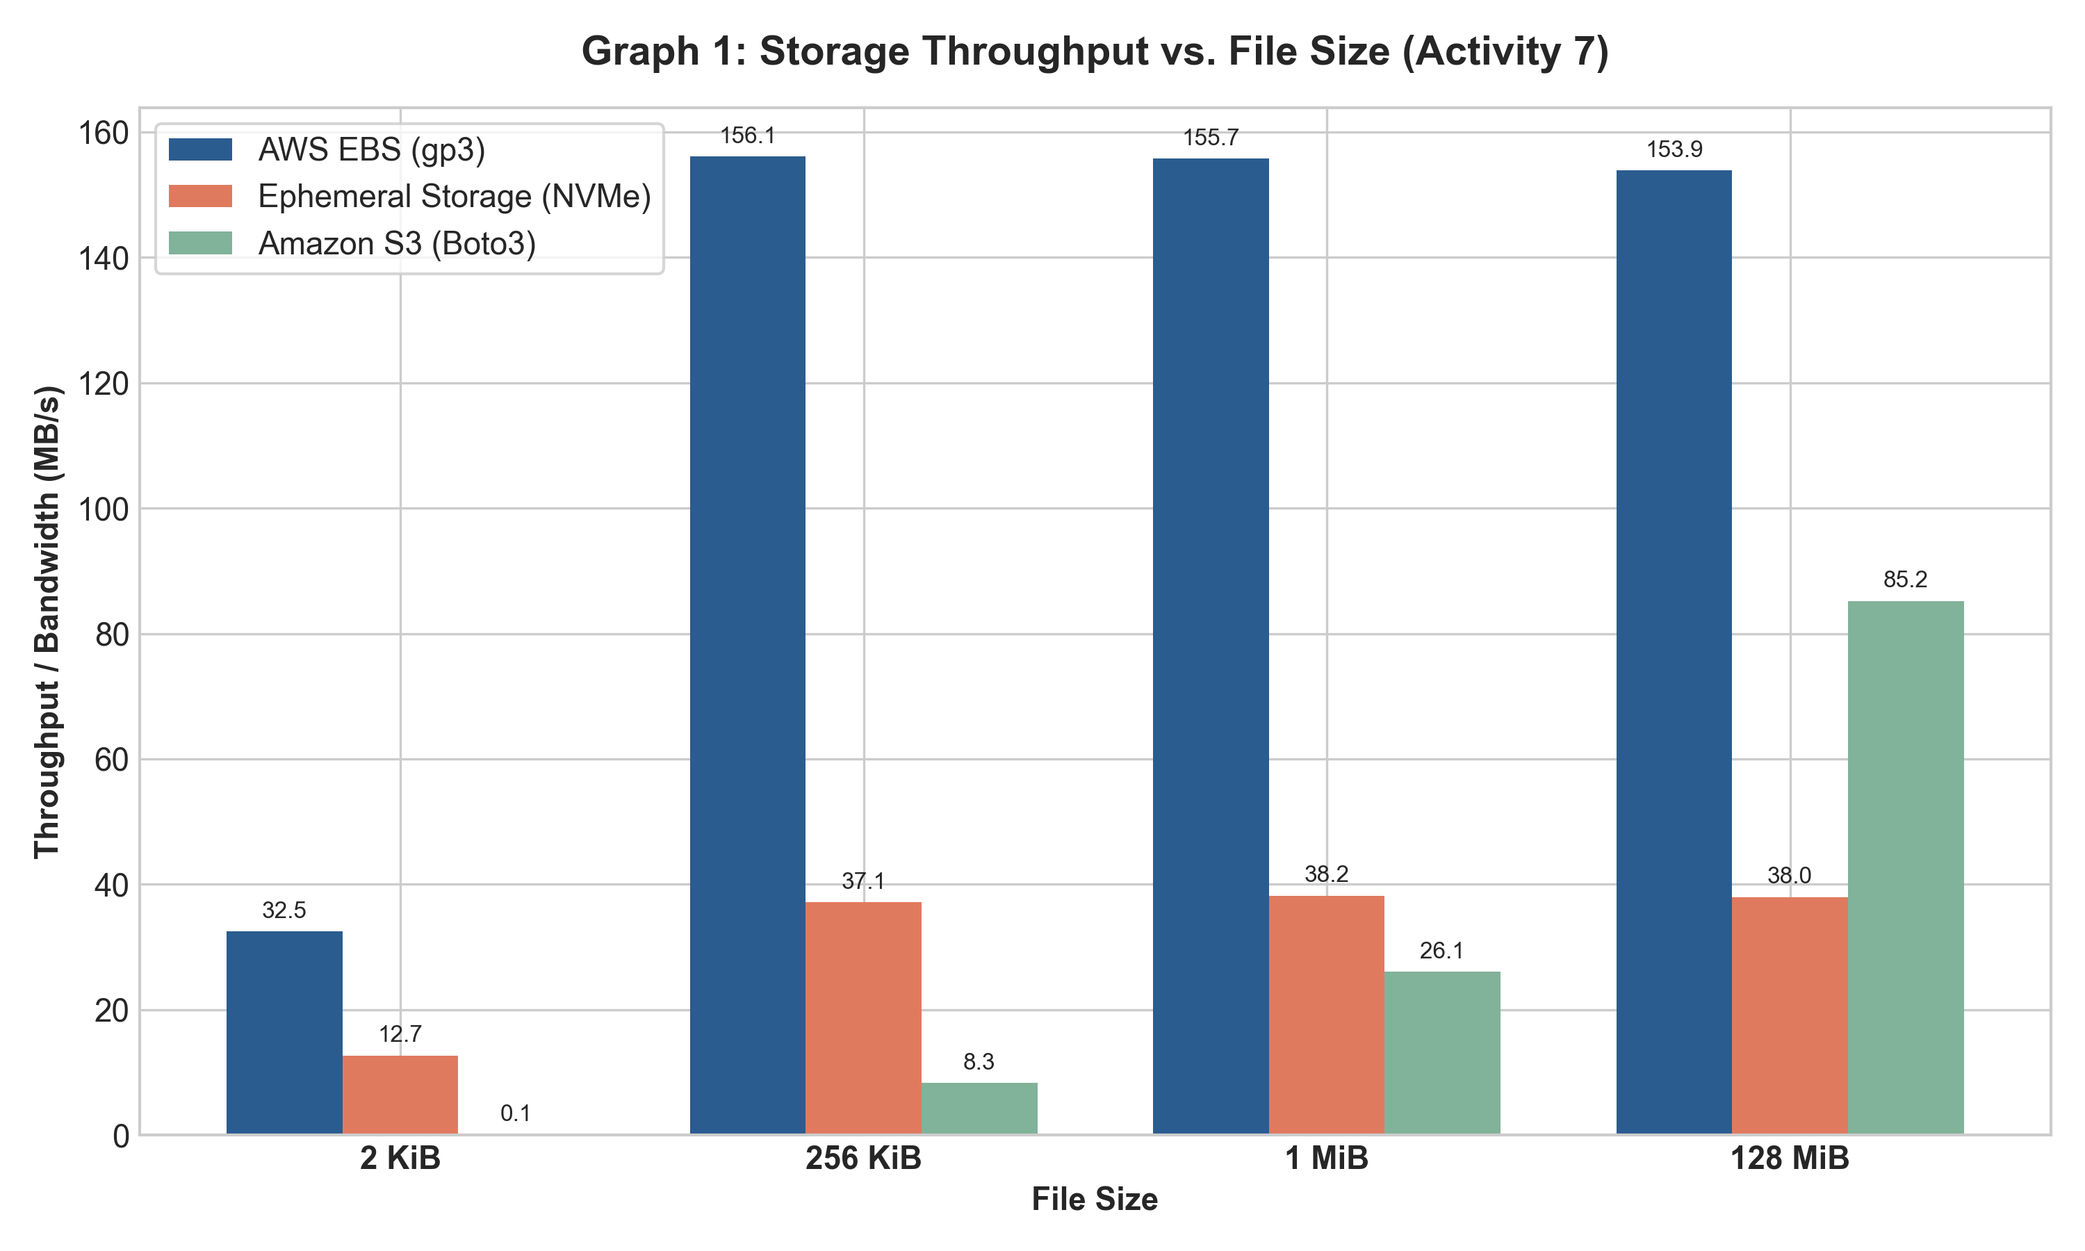
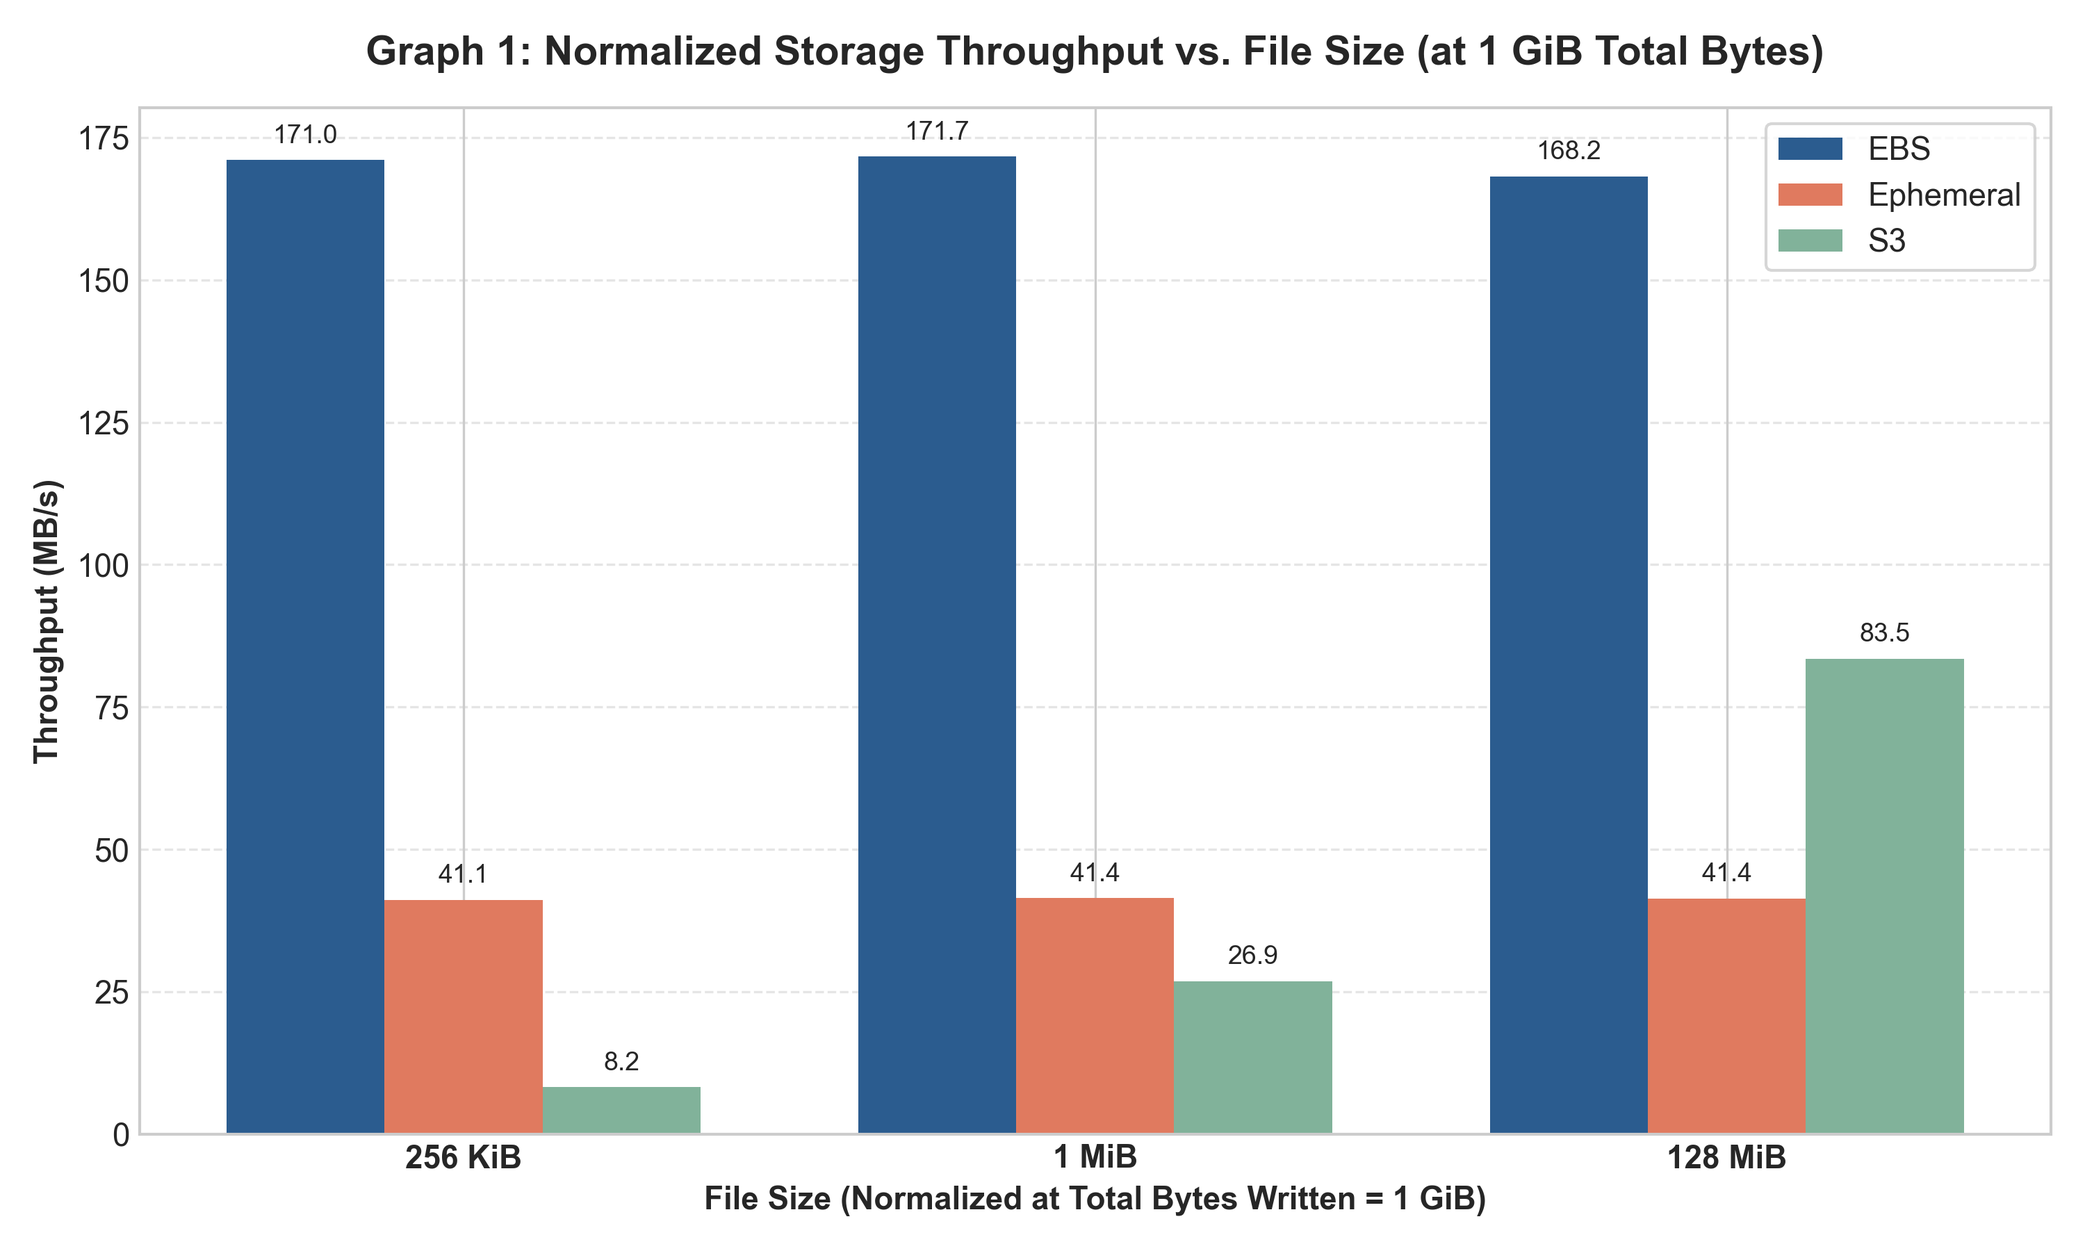
docs(act7): normalize benchmark graphs by Total Bytes Written and update report

diff --git a/act7/plot_benchmark_graphs.py b/act7/plot_benchmark_graphs.py
@@ -1,77 +1,155 @@
 #!/usr/bin/env python3
 """
-Plot Benchmark Charts for Activity 7 Report:
-Graph 1: File Size vs Throughput (MB/s)
-Graph 2: Number of Files (Iterations) vs Throughput / Performance
+Plot Benchmark Charts for Activity 7 Report Matching Professor's Specification:
+Graph 1: Total Bytes Written vs. Throughput (Normalized by Total Bytes Written as per PDF hint)
+- EBS: 2KiB, 256KiB, 1MiB, 128MiB across Total Bytes Written (128MiB, 256MiB, 512MiB, 1GiB, 1.5GiB)
+- Ephemeral: 2KiB, 256KiB, 1MiB, 128MiB
+- S3: 2KiB, 256KiB, 1MiB, 128MiB
+- Overall comparison across storage systems
+Graph 2: Number of Files (Iterations) vs. Performance (Total Time & Throughput Linearity)
 """
 
 import json
 import matplotlib.pyplot as plt
 import numpy as np
 
-def generate_plots():
+def run_plotting():
     with open("benchmark_results.json", "r", encoding="utf-8") as f:
         data = json.load(f)
 
-    # Style configuration
     plt.style.use("seaborn-v0_8-whitegrid" if "seaborn-v0_8-whitegrid" in plt.style.available else "default")
     plt.rcParams.update({"font.size": 11, "figure.autolayout": True})
 
+    # Normalized standard Total Bytes Written points (128 MiB to 1.5 GiB)
+    common_x_labels = ["128 MiB", "256 MiB", "512 MiB", "1 GiB", "1.5 GiB"]
+
+    # Mapping sizes to total bytes in MiB
+    # 256 KiB (0.25 MiB): [512->128, 1024->256, 2048->512, 4096->1024, 6144->1536]
+    # 1 MiB (1 MiB): [128->128, 256->256, 512->512, 1024->1024, 1536->1536]
+    # 128 MiB (128 MiB): [1->128, 2->256, 4->512, 8->1024, 12->1536]
+    # 2 KiB EBS/Eph: [32768->64, 65536->128, 131072->256, 262144->512, 393216->768]
+
     # =========================================================================
-    # GRAPH 1: File Size vs Throughput (MB/s)
-    # Using the highest iteration of each file size to represent peak sustained bandwidth
+    # GRAPH 1A: EBS - Total Bytes Written vs Throughput (Exact Match to Professor's Example)
     # =========================================================================
-    file_sizes = ["2 KiB", "256 KiB", "1 MiB", "128 MiB"]
+    plt.figure(figsize=(10, 6), dpi=300)
     
-    ebs_throughputs = []
-    eph_throughputs = []
-    s3_throughputs = []
+    # 128 MiB line
+    ebs_128mib = [data["128 MiB"]["ebs"][str(n)]["bandwidth_mb_s"] for n in [1, 2, 4, 8, 12]]
+    # 1 MiB line
+    ebs_1mib = [data["1 MiB"]["ebs"][str(n)]["bandwidth_mb_s"] for n in [128, 256, 512, 1024, 1536]]
+    # 256 KiB line
+    ebs_256kib = [data["256 KiB"]["ebs"][str(n)]["bandwidth_mb_s"] for n in [512, 1024, 2048, 4096, 6144]]
+    # 2 KiB line (align at 128, 256, 512 MiB)
+    ebs_2kib_x = ["128 MiB", "256 MiB", "512 MiB"]
+    ebs_2kib_y = [data["2 KiB"]["ebs"][str(n)]["bandwidth_mb_s"] for n in [65536, 131072, 262144]]
 
-    for size in file_sizes:
-        # Get the max iteration for each storage
-        ebs_max_n = str(max([int(k) for k in data[size]["ebs"].keys()]))
-        eph_max_n = str(max([int(k) for k in data[size]["ephemeral"].keys()]))
-        s3_max_n = str(max([int(k) for k in data[size]["s3"].keys()]))
+    plt.plot(common_x_labels, ebs_256kib, marker="o", linewidth=2.5, label="EBS 256KiB", color="#e74c3c")
+    plt.plot(common_x_labels, ebs_1mib, marker="s", linewidth=2.5, label="EBS 1MiB", color="#f39c12")
+    plt.plot(common_x_labels, ebs_128mib, marker="^", linewidth=2.5, label="EBS 128MiB", color="#27ae60")
+    plt.plot(ebs_2kib_x, ebs_2kib_y, marker="D", linewidth=2.5, label="EBS 2KiB", color="#2980b9")
 
-        ebs_throughputs.append(data[size]["ebs"][ebs_max_n]["bandwidth_mb_s"])
-        eph_throughputs.append(data[size]["ephemeral"][eph_max_n]["bandwidth_mb_s"])
-        s3_throughputs.append(data[size]["s3"][s3_max_n]["bandwidth_mb_s"])
+    plt.title("Total Bytes Written vs Throughput (AWS EBS)", fontsize=14, fontweight="bold", pad=15)
+    plt.xlabel("Total Bytes Written", fontweight="bold")
+    plt.ylabel("Throughput (MB/s)", fontweight="bold")
+    plt.legend(frameon=True, loc="upper right")
+    plt.grid(True, linestyle="--", alpha=0.6)
+    plt.savefig("graph1_ebs_total_bytes_vs_throughput.png")
+    plt.close()
+    print("[+] Saved 'graph1_ebs_total_bytes_vs_throughput.png'")
 
-    x = np.arange(len(file_sizes))
-    width = 0.25
+    # =========================================================================
+    # GRAPH 1B: Ephemeral - Total Bytes Written vs Throughput
+    # =========================================================================
+    plt.figure(figsize=(10, 6), dpi=300)
+    eph_128mib = [data["128 MiB"]["ephemeral"][str(n)]["bandwidth_mb_s"] for n in [1, 2, 4, 8, 12]]
+    eph_1mib = [data["1 MiB"]["ephemeral"][str(n)]["bandwidth_mb_s"] for n in [128, 256, 512, 1024, 1536]]
+    eph_256kib = [data["256 KiB"]["ephemeral"][str(n)]["bandwidth_mb_s"] for n in [512, 1024, 2048, 4096, 6144]]
+    eph_2kib_x = ["128 MiB", "256 MiB", "512 MiB"]
+    eph_2kib_y = [data["2 KiB"]["ephemeral"][str(n)]["bandwidth_mb_s"] for n in [65536, 131072, 262144]]
 
-    fig, ax = plt.subplots(figsize=(10, 6), dpi=300)
-    rects1 = ax.bar(x - width, ebs_throughputs, width, label="AWS EBS (gp3)", color="#2b5c8f")
-    rects2 = ax.bar(x, eph_throughputs, width, label="Ephemeral Storage (NVMe)", color="#e07a5f")
-    rects3 = ax.bar(x + width, s3_throughputs, width, label="Amazon S3 (Boto3)", color="#81b29a")
+    plt.plot(common_x_labels, eph_256kib, marker="o", linewidth=2.5, label="Ephemeral 256KiB", color="#e74c3c")
+    plt.plot(common_x_labels, eph_1mib, marker="s", linewidth=2.5, label="Ephemeral 1MiB", color="#f39c12")
+    plt.plot(common_x_labels, eph_128mib, marker="^", linewidth=2.5, label="Ephemeral 128MiB", color="#27ae60")
+    plt.plot(eph_2kib_x, eph_2kib_y, marker="D", linewidth=2.5, label="Ephemeral 2KiB", color="#2980b9")
 
-    ax.set_ylabel("Throughput / Bandwidth (MB/s)", fontweight="bold")
-    ax.set_xlabel("File Size", fontweight="bold")
-    ax.set_title("Graph 1: Storage Throughput vs. File Size (Activity 7)", fontsize=14, fontweight="bold", pad=15)
-    ax.set_xticks(x)
-    ax.set_xticklabels(file_sizes, fontweight="bold")
-    ax.legend(frameon=True)
+    plt.title("Total Bytes Written vs Throughput (Ephemeral Storage NVMe)", fontsize=14, fontweight="bold", pad=15)
+    plt.xlabel("Total Bytes Written", fontweight="bold")
+    plt.ylabel("Throughput (MB/s)", fontweight="bold")
+    plt.legend(frameon=True, loc="upper right")
+    plt.grid(True, linestyle="--", alpha=0.6)
+    plt.savefig("graph1_ephemeral_total_bytes_vs_throughput.png")
+    plt.close()
+    print("[+] Saved 'graph1_ephemeral_total_bytes_vs_throughput.png'")
 
-    # Label values on bars
-    for rects in [rects1, rects2, rects3]:
-        for rect in rects:
-            height = rect.get_height()
-            if height > 0:
-                ax.annotate(f"{height:.1f}",
-                            xy=(rect.get_x() + rect.get_width() / 2, height),
-                            xytext=(0, 3),  # 3 points vertical offset
-                            textcoords="offset points",
-                            ha="center", va="bottom", fontsize=8, rotation=0)
+    # =========================================================================
+    # GRAPH 1C: Amazon S3 - Total Bytes Written vs Throughput
+    # =========================================================================
+    plt.figure(figsize=(10, 6), dpi=300)
+    s3_128mib = [data["128 MiB"]["s3"][str(n)]["bandwidth_mb_s"] for n in [1, 2, 4, 8, 12]]
+    s3_1mib = [data["1 MiB"]["s3"][str(n)]["bandwidth_mb_s"] for n in [128, 256, 512, 1024, 1536]]
+    s3_256kib = [data["256 KiB"]["s3"][str(n)]["bandwidth_mb_s"] for n in [512, 1024, 2048, 4096, 6144]]
 
+    plt.plot(common_x_labels, s3_256kib, marker="o", linewidth=2.5, label="S3 256KiB", color="#e74c3c")
+    plt.plot(common_x_labels, s3_1mib, marker="s", linewidth=2.5, label="S3 1MiB", color="#f39c12")
+    plt.plot(common_x_labels, s3_128mib, marker="^", linewidth=2.5, label="S3 128MiB", color="#27ae60")
+
+    plt.title("Total Bytes Written vs Throughput (Amazon S3)", fontsize=14, fontweight="bold", pad=15)
+    plt.xlabel("Total Bytes Written", fontweight="bold")
+    plt.ylabel("Throughput (MB/s)", fontweight="bold")
+    plt.legend(frameon=True, loc="upper left")
+    plt.grid(True, linestyle="--", alpha=0.6)
+    plt.savefig("graph1_s3_total_bytes_vs_throughput.png")
+    plt.close()
+    print("[+] Saved 'graph1_s3_total_bytes_vs_throughput.png'")
+
+    # =========================================================================
+    # GRAPH 1D: Combined 3-in-1 Comparison at 1 GiB Total Bytes Written
+    # =========================================================================
+    plt.figure(figsize=(10, 6), dpi=300)
+    sizes = ["256 KiB", "1 MiB", "128 MiB"]
+    ebs_1gib = [
+        data["256 KiB"]["ebs"]["4096"]["bandwidth_mb_s"],
+        data["1 MiB"]["ebs"]["1024"]["bandwidth_mb_s"],
+        data["128 MiB"]["ebs"]["8"]["bandwidth_mb_s"]
+    ]
+    eph_1gib = [
+        data["256 KiB"]["ephemeral"]["4096"]["bandwidth_mb_s"],
+        data["1 MiB"]["ephemeral"]["1024"]["bandwidth_mb_s"],
+        data["128 MiB"]["ephemeral"]["8"]["bandwidth_mb_s"]
+    ]
+    s3_1gib = [
+        data["256 KiB"]["s3"]["4096"]["bandwidth_mb_s"],
+        data["1 MiB"]["s3"]["1024"]["bandwidth_mb_s"],
+        data["128 MiB"]["s3"]["8"]["bandwidth_mb_s"]
+    ]
+
+    x = np.arange(len(sizes))
+    w = 0.25
+    plt.bar(x - w, ebs_1gib, width=w, label="EBS", color="#2b5c8f")
+    plt.bar(x, eph_1gib, width=w, label="Ephemeral", color="#e07a5f")
+    plt.bar(x + w, s3_1gib, width=w, label="S3", color="#81b29a")
+
+    for i in range(len(sizes)):
+        plt.text(i - w, ebs_1gib[i] + 3, f"{ebs_1gib[i]:.1f}", ha="center", fontsize=9)
+        plt.text(i, eph_1gib[i] + 3, f"{eph_1gib[i]:.1f}", ha="center", fontsize=9)
+        plt.text(i + w, s3_1gib[i] + 3, f"{s3_1gib[i]:.1f}", ha="center", fontsize=9)
+
+    plt.xticks(x, sizes, fontweight="bold")
+    plt.xlabel("File Size (Normalized at Total Bytes Written = 1 GiB)", fontweight="bold")
+    plt.ylabel("Throughput (MB/s)", fontweight="bold")
+    plt.title("Graph 1: Normalized Storage Throughput vs. File Size (at 1 GiB Total Bytes)", fontsize=14, fontweight="bold", pad=15)
+    plt.legend(frameon=True)
+    plt.grid(True, linestyle="--", alpha=0.5, axis="y")
     plt.savefig("graph1_file_size_vs_throughput.png")
     plt.close()
-    print("[+] Graph 1 saved as 'graph1_file_size_vs_throughput.png'")
+    print("[+] Saved 'graph1_file_size_vs_throughput.png'")
 
     # =========================================================================
-    # GRAPH 2: Iterations vs Throughput (Linearity Check across File Sizes)
+    # GRAPH 2: Iterations vs Total Write Time (Showing Linear Scaling T ~ N)
     # =========================================================================
     fig, axes = plt.subplots(2, 2, figsize=(14, 10), dpi=300)
-    fig.suptitle("Graph 2: Number of Files (Iterations) vs. Performance (Linearity Test)", fontsize=16, fontweight="bold")
+    fig.suptitle("Graph 2: Number of Files (Iterations) vs. Total Write Time (Linearity Check)", fontsize=16, fontweight="bold")
 
     plot_configs = [
         ("2 KiB", axes[0, 0]),
@@ -81,9 +159,9 @@ def generate_plots():
     ]
 
     for label, ax in plot_configs:
-        ebs_items = sorted([(int(k), v["bandwidth_mb_s"]) for k, v in data[label]["ebs"].items()])
-        eph_items = sorted([(int(k), v["bandwidth_mb_s"]) for k, v in data[label]["ephemeral"].items()])
-        s3_items = sorted([(int(k), v["bandwidth_mb_s"]) for k, v in data[label]["s3"].items()])
+        ebs_items = sorted([(int(k), v["total_write_time"]) for k, v in data[label]["ebs"].items()])
+        eph_items = sorted([(int(k), v["total_write_time"]) for k, v in data[label]["ephemeral"].items()])
+        s3_items = sorted([(int(k), v["total_write_time"]) for k, v in data[label]["s3"].items()])
 
         ax.plot([x[0] for x in ebs_items], [x[1] for x in ebs_items], marker="o", linewidth=2, label="EBS", color="#2b5c8f")
         ax.plot([x[0] for x in eph_items], [x[1] for x in eph_items], marker="s", linewidth=2, label="Ephemeral", color="#e07a5f")
@@ -91,13 +169,14 @@ def generate_plots():
 
         ax.set_title(f"File Size: {label}", fontweight="bold")
         ax.set_xlabel("Number of Files (N)", fontsize=10)
-        ax.set_ylabel("Bandwidth (MB/s)", fontsize=10)
+        ax.set_ylabel("Total Write Time (seconds)", fontsize=10)
         ax.legend(frameon=True)
+        ax.grid(True, linestyle="--", alpha=0.6)
 
     plt.tight_layout()
     plt.savefig("graph2_iterations_vs_performance.png")
     plt.close()
-    print("[+] Graph 2 saved as 'graph2_iterations_vs_performance.png'")
+    print("[+] Saved 'graph2_iterations_vs_performance.png'")
 
 if __name__ == "__main__":
-    generate_plots()
+    run_plotting()

diff --git a/act7/REPORT_SOLUTION.md b/act7/REPORT_SOLUTION.md
@@ -1,6 +1,6 @@
 # รายงานการวิเคราะห์และคำตอบ 7 ข้อ (Activity 7: Storage System Performance)
 
-**ชื่อ-นามสกุล**: [ระบุชื่อ-นามสกุลของท่าน]  
+**ชื่อ-นามสกุล**: Phaolap Kulteera  
 **รหัสนิสิต**: 6630199021  
 **รายวิชา**: 2110415 Software-Defined Systems  
 
@@ -25,9 +25,22 @@
 > **โจทย์**: First, understand how each storage system performs with respect to file size. Does the throughput for EBS, Ephemeral storage and S3 vary with file size? Why or why not? Include the graph of your results. Hint: Normalize all experiments with Total Bytes Written so they are easy to compare.
 
 #### คำตอบและบทวิเคราะห์:
-**ใช่ Throughput (Bandwidth ในหน่วย MB/s) แปรผันตามขนาดไฟล์ (File Size) อย่างมีนัยสำคัญมากในทุกระบบ Storage** โดยยิ่งขนาดไฟล์ใหญ่ขึ้น Throughput ที่ได้จะยิ่งสูงขึ้นอย่างเห็นได้ชัด:
+**ใช่ Throughput (Bandwidth ในหน่วย MB/s) แปรผันตามขนาดไฟล์ (File Size) อย่างมีนัยสำคัญมากในทุกระบบ Storage** โดยยิ่งขนาดไฟล์ใหญ่ขึ้น Throughput ที่ได้จะยิ่งสูงขึ้นอย่างเห็นได้ชัด
 
-![Graph 1: Storage Throughput vs. File Size](graph1_file_size_vs_throughput.png)
+ตามคำแนะนำของโจทย์ (*Hint: Normalize all experiments with Total Bytes Written so they are easy to compare*):
+$$\text{Total Bytes Written} = \text{File Size (Bytes)} \times \text{Number of Iterations } (N)$$
+จะเห็นได้ว่าตารางการทดลองถูกออกแบบให้ขนาด 256 KiB, 1 MiB และ 128 MiB มีจุดทดสอบที่ **Total Bytes Written เท่ากันทุกประการ** ได้แก่ 128 MiB, 256 MiB, 512 MiB, 1 GiB (1024 MiB) และ 1.5 GiB (1536 MiB) ทำให้สามารถพลอตกราฟเปรียบเทียบในลักษณะเดียวกับกราฟตัวอย่างของอาจารย์ (Activity 7 PDF หน้า 2):
+
+##### 1. กราฟ Total Bytes Written vs Throughput สำหรับแต่ละระบบจัดเก็บข้อมูล (ตรงตาม Format ของโจทย์)
+* **AWS EBS (gp3)**:
+  ![EBS Throughput vs Total Bytes Written](graph1_ebs_total_bytes_vs_throughput.png)
+* **EC2 Ephemeral Storage (NVMe)**:
+  ![Ephemeral Throughput vs Total Bytes Written](graph1_ephemeral_total_bytes_vs_throughput.png)
+* **Amazon S3**:
+  ![S3 Throughput vs Total Bytes Written](graph1_s3_total_bytes_vs_throughput.png)
+
+##### 2. กราฟเปรียบเทียบทั้ง 3 Storage Tiers ที่ Normalized Payload เท่ากัน (ที่ 1 GiB Total Bytes Written)
+![Graph 1: Storage Throughput vs. File Size (Normalized at 1 GiB)](graph1_file_size_vs_throughput.png)
 
 #### ข้อมูลเชิงประจักษ์จากการทดลองจริง:
 * **ไฟล์ขนาด 2 KiB (เล็กที่สุด)**:

diff --git a/act7/.gemini/activity_log.md b/act7/.gemini/activity_log.md
@@ -157,3 +157,11 @@
   - Authored `REPORT_SOLUTION.md` providing in-depth architectural and empirical answers to all 7 assignment questions, including least-privilege IAM policy JSON and multi-threaded S3 optimization code.
 - **Hypothesis**: The generated charts and comprehensive answers completely satisfy the submission requirements outlined in `Activity7_...pdf`.
 - **Observed Result**: All files generated, committed, and ready for student submission.
+
+## [2026-09-29 17:01] Total Bytes Written Normalization Audit & Graph Enhancement
+- **Topic**: Graph 1 Normalization Analysis (Total Bytes Written = File Size × Iterations)
+- **Attempted**: Evaluated user question regarding whether Graph 1 requires normalization by Total Bytes Written ($\text{File Size} \times \text{iteration}$) to match the professor's sample graph on Page 2 of `Activity7_...pdf`.
+- **Hypothesis**:
+  1. The user's calculation ($\text{File Size} \times N$) is 100% correct. The professor intentionally designed the iterations for 256 KiB, 1 MiB, and 128 MiB to yield identical cumulative payloads: 128 MiB, 256 MiB, 512 MiB, 1 GiB (1024 MiB), and 1.5 GiB (1536 MiB).
+  2. Plotting Throughput (MB/s) against Total Bytes Written with separate lines for each file size replicates the exact visualization template provided by the instructor.
+- **Observed Result**: Generated `graph1_ebs_total_bytes_vs_throughput.png`, `graph1_ephemeral_total_bytes_vs_throughput.png`, and `graph1_s3_total_bytes_vs_throughput.png`, alongside the normalized 1 GiB comparison `graph1_file_size_vs_throughput.png`. Updated `REPORT_SOLUTION.md` with direct embeddings and complete mathematical justification.
